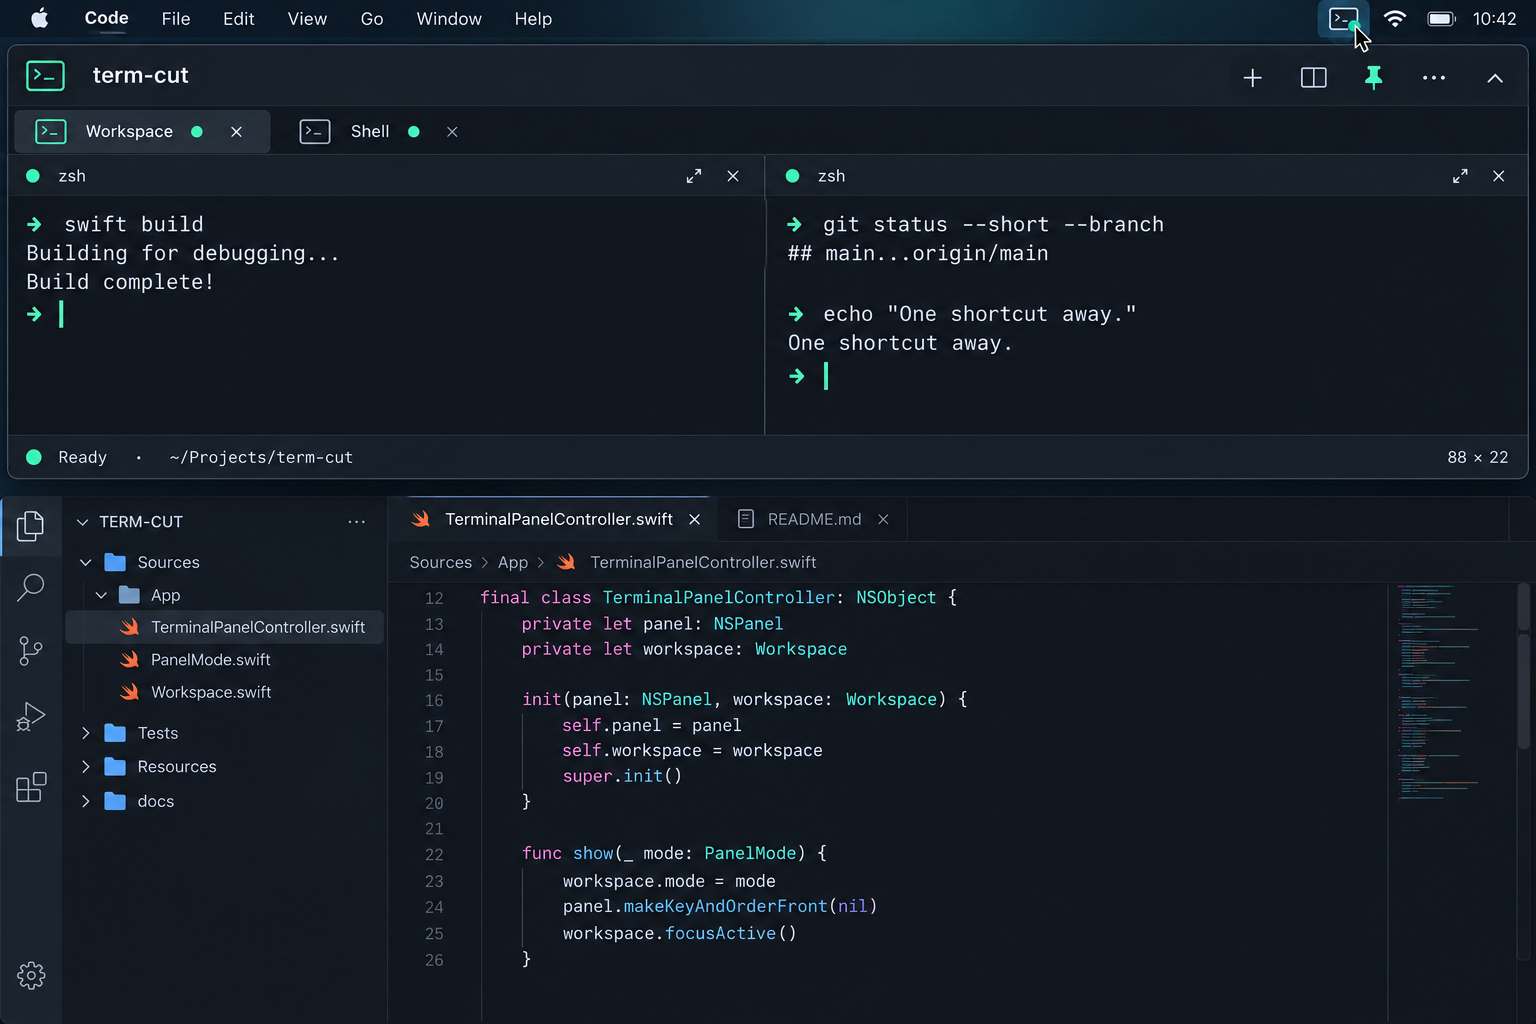
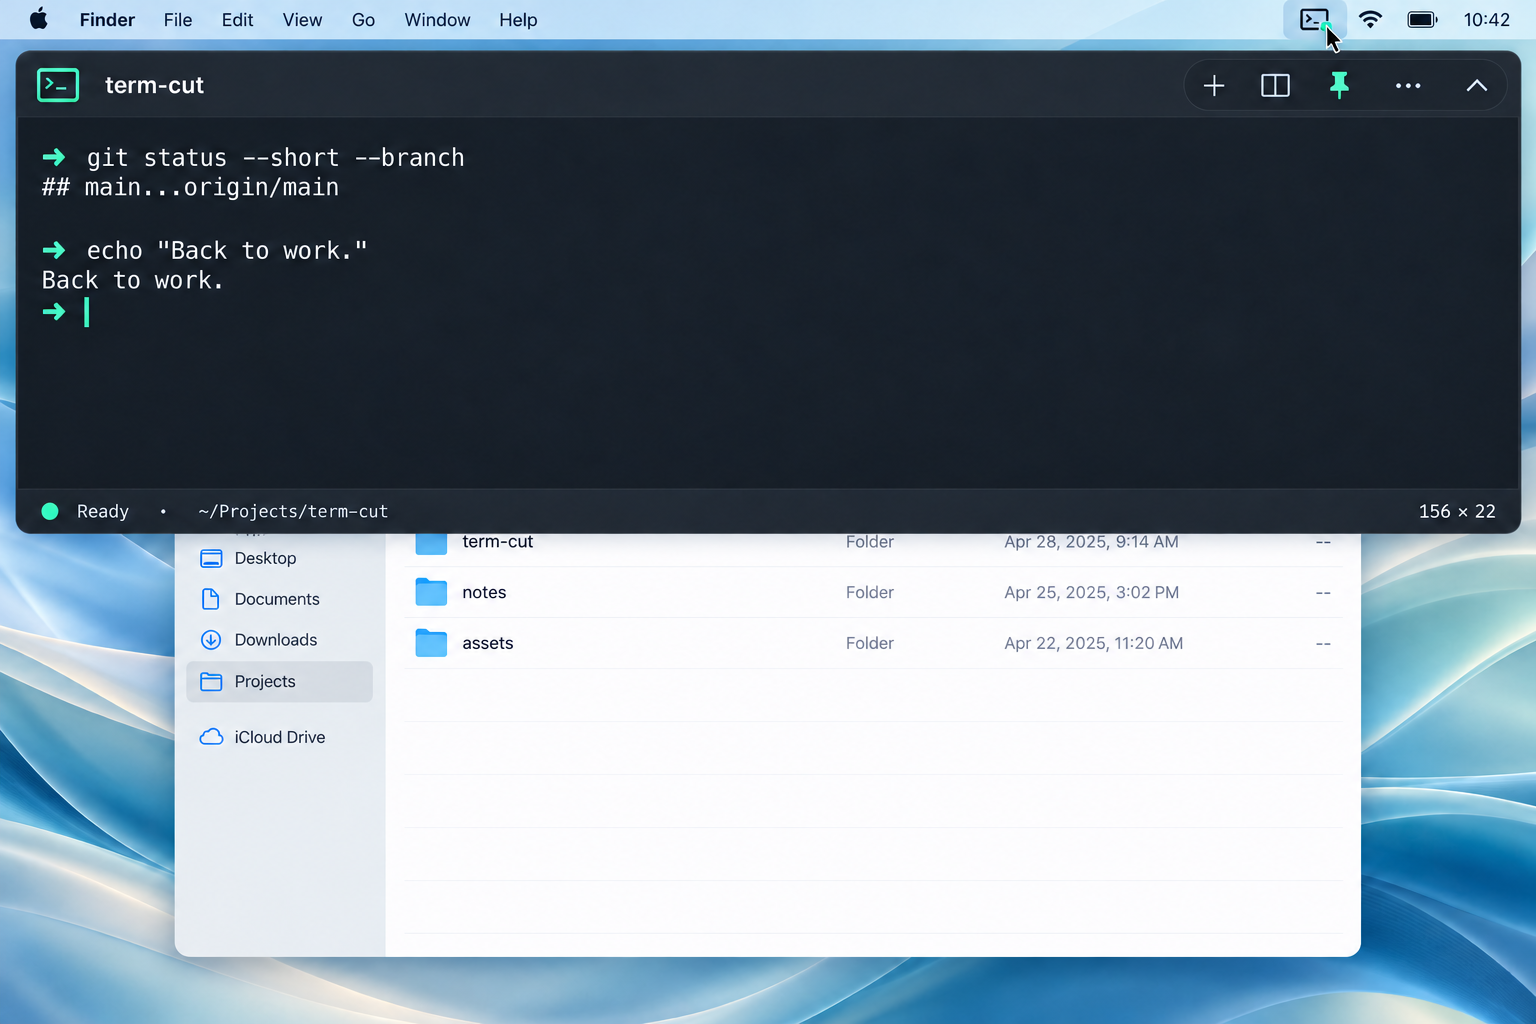
Show the drop-down terminal as an overlay on macOS

diff --git a/README.md b/README.md
@@ -13,7 +13,7 @@ Open your shell with a global hotkey, work across tabs and split panes, and keep
 
 </div>
 
-![term-cut drop-down terminal opened from the macOS menu bar above a developer code editor](docs/images/dropdown-preview.png)
+![term-cut drop-down terminal opened from the macOS menu bar overlaying a normal Finder window](docs/images/dropdown-preview.png)
 
 *Open from the menu bar or a global shortcut. Illustrative product preview.*
 
